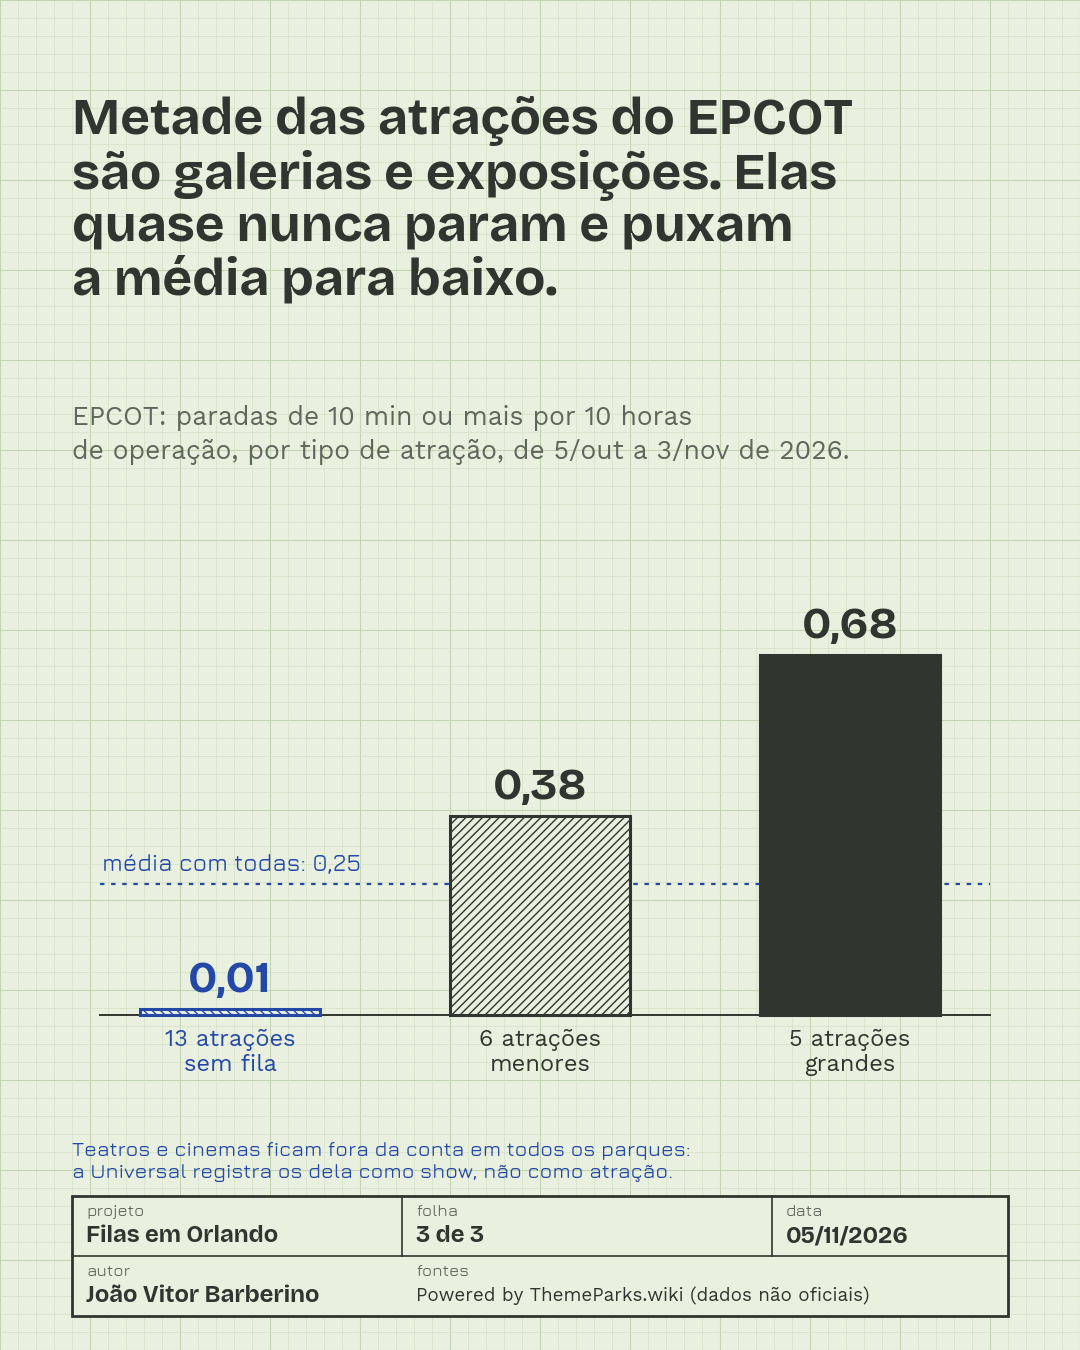
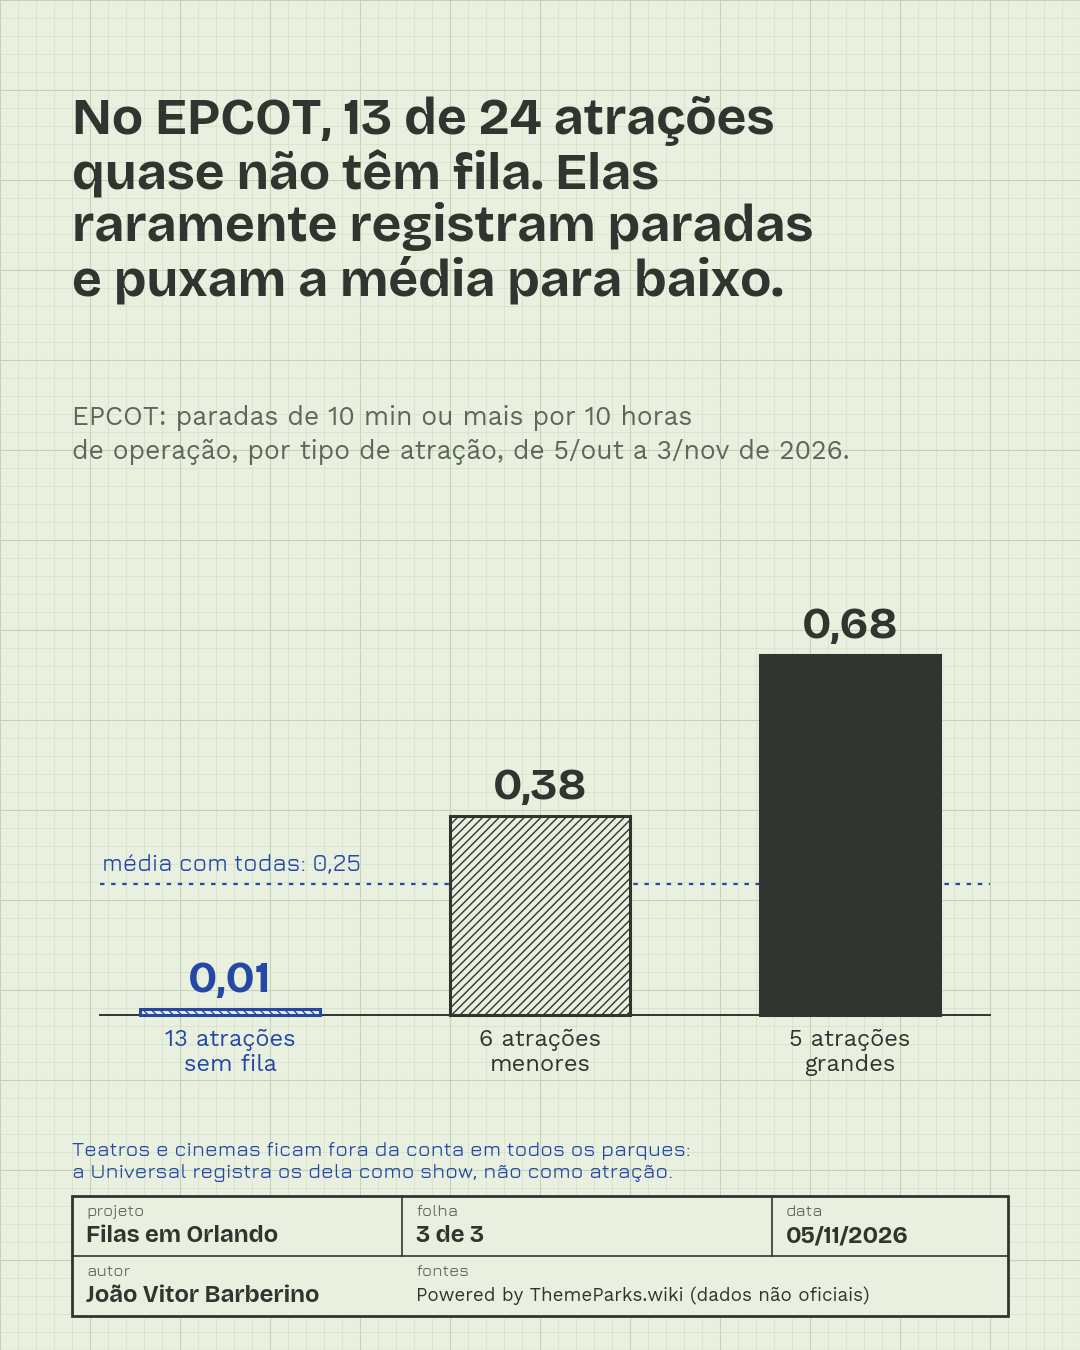
Refine EPCOT analysis and update carousel

Changed region(s): [[0.0611, 0.0622, 0.7944, 0.2178]]

diff --git a/carrossel_estreia.py b/carrossel_estreia.py
@@ -1,5 +1,5 @@
 """
-Projeto "Filas em Orlando": carrossel do post de estreia (quinta, 12/11/2026).
+Projeto "Filas em Orlando": carrossel do post de estreia (quinta, 05/11/2026).
 
 Identidade da série de quinta: "folha de cálculo" (papel de engenharia
 quadriculado, grafite, caneta azul, carimbo de desenho técnico no rodapé).
@@ -14,7 +14,7 @@ Medida (revisada em 04/11): paradas de 10 min ou mais por 10 horas de operação
 atração (operação = minutos funcionando + parada, no horário normal), SEM as paradas
 por raio. 1º lugar = mais paradas. Teatros e cinemas ficam fora (limpar_paradas.py).
 Por que o EPCOT: é o parque cuja posição muda e que passou nos testes do robustez.py
-(3º em todos os cortes de porte, nas duas metades do mês e em 88% das reamostragens
+(3º em todos os cortes de porte, nas duas metades do mês e em 84% das reamostragens
 por dia). Quem é o 1º (Islands ou Epic) NÃO passou nos testes: por isso não vai em título.
 
 Como rodar (mesma pasta; depois do limpar_paradas.py e do checar_clima.py):
@@ -45,7 +45,10 @@ PARQUE_FOCO = "epcot"      # o parque contado na capa e na imagem 3
 
 TITULO_1 = "Qual parque de Orlando\ntem mais paradas por\natração? Depende da régua."
 TITULO_2 = "Comparando só atrações\ngrandes, o ranking muda: o\n{parque} sobe do {de}º para o {para}º lugar."
-TITULO_3 = "{quanto} das atrações do {parque}\nsão galerias e exposições. Elas\nquase nunca param e puxam\na média para baixo."
+TITULO_3 = ("No {parque}, {quanto} atrações\n"
+            "quase não têm fila. Elas\n"
+            "raramente registram paradas\n"
+            "e puxam a média para baixo.")
 
 PERIODO = "de 5/out a 3/nov de 2026"
 SUBTITULO_1 = ("Posição do {parque} entre os 7 parques da Disney\n"
@@ -270,10 +273,7 @@ def ranking(f, tab):
 def por_que(f, tab):
     t = tab[PARQUE_FOCO]
     total = sum(t["qtd"].values())
-    fracao = t["qtd"]["sem_fila"] / total
-    quanto = "Metade" if 0.45 <= fracao <= 0.58 else f"{t['qtd']['sem_fila']} das {total}"
-    if quanto != "Metade":
-        print(f"AVISO: {t['qtd']['sem_fila']} de {total} atrações sem fila ({fracao:.0%}); confira o título 3.")
+    quanto = f"{t['qtd']['sem_fila']} de {total}"
     titulo = TITULO_3.format(quanto=quanto, parque=NOMES[PARQUE_FOCO])
     fig, ax = folha(f, titulo, SUBTITULO_3.format(parque=NOMES[PARQUE_FOCO]), "3 de 3",
                     y_subtitulo=405, tamanho_titulo=37)
